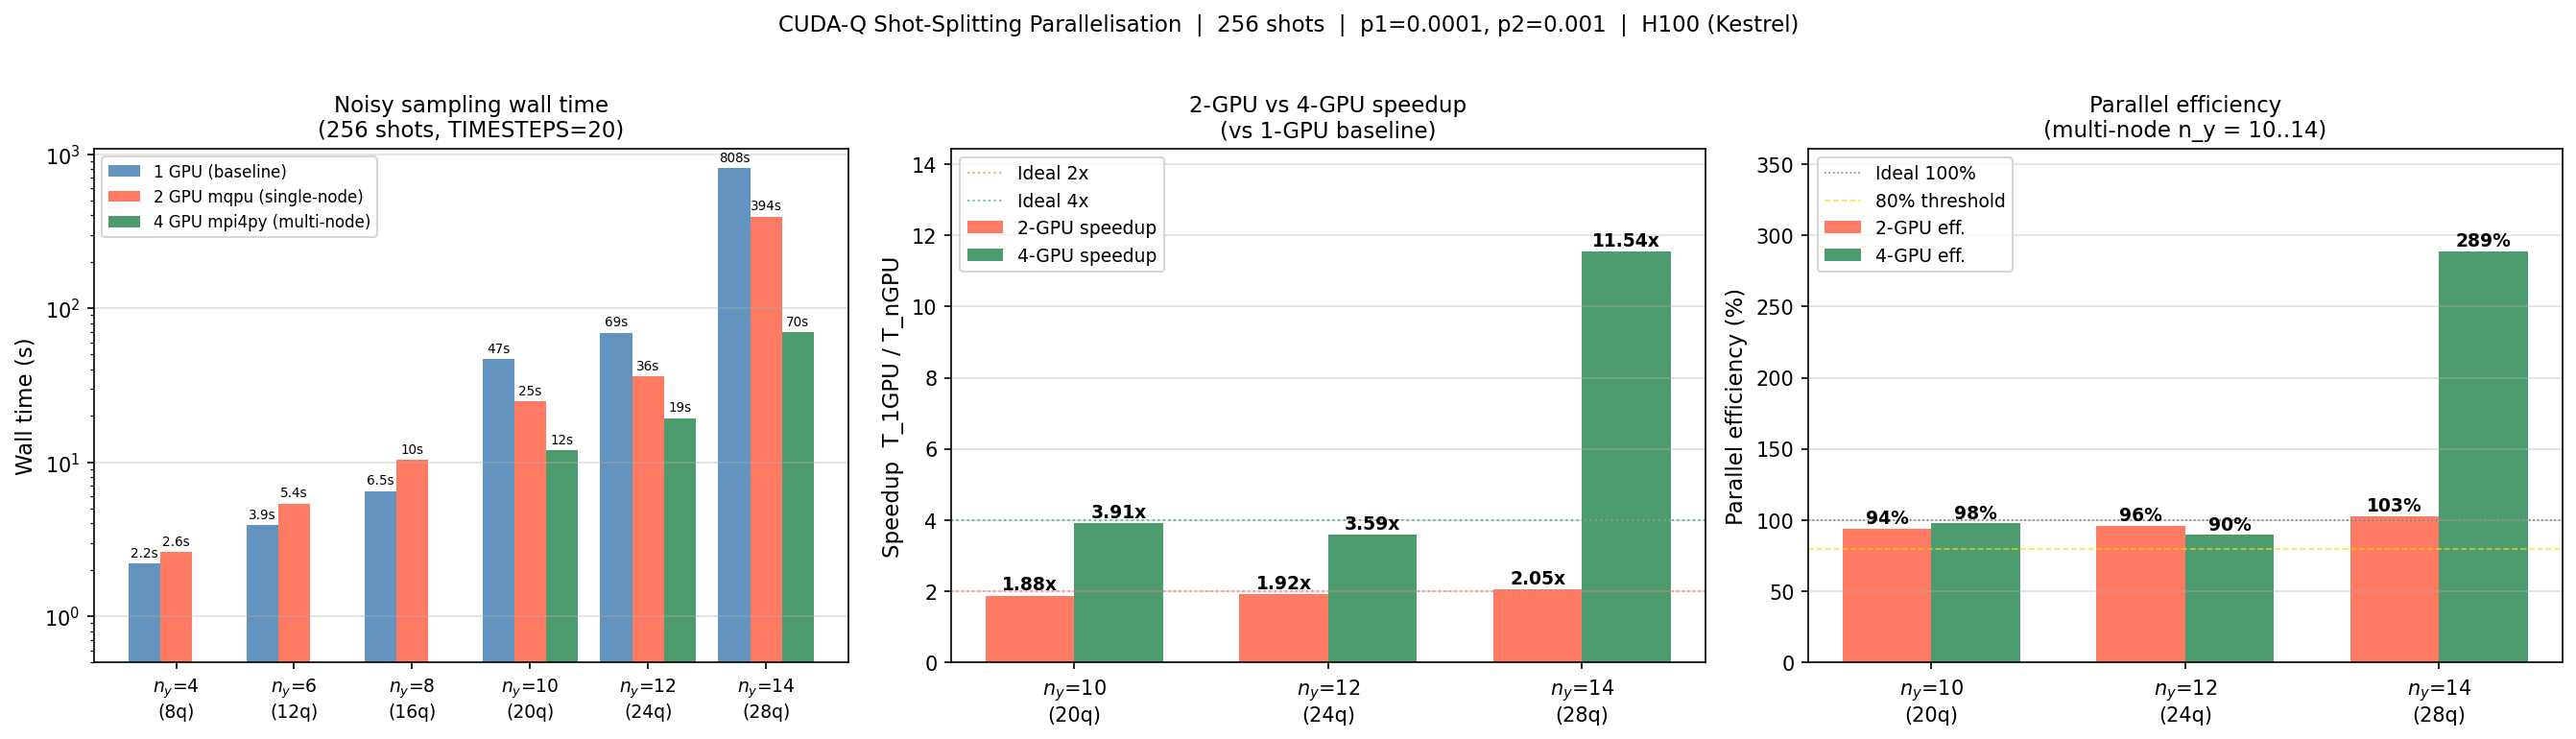
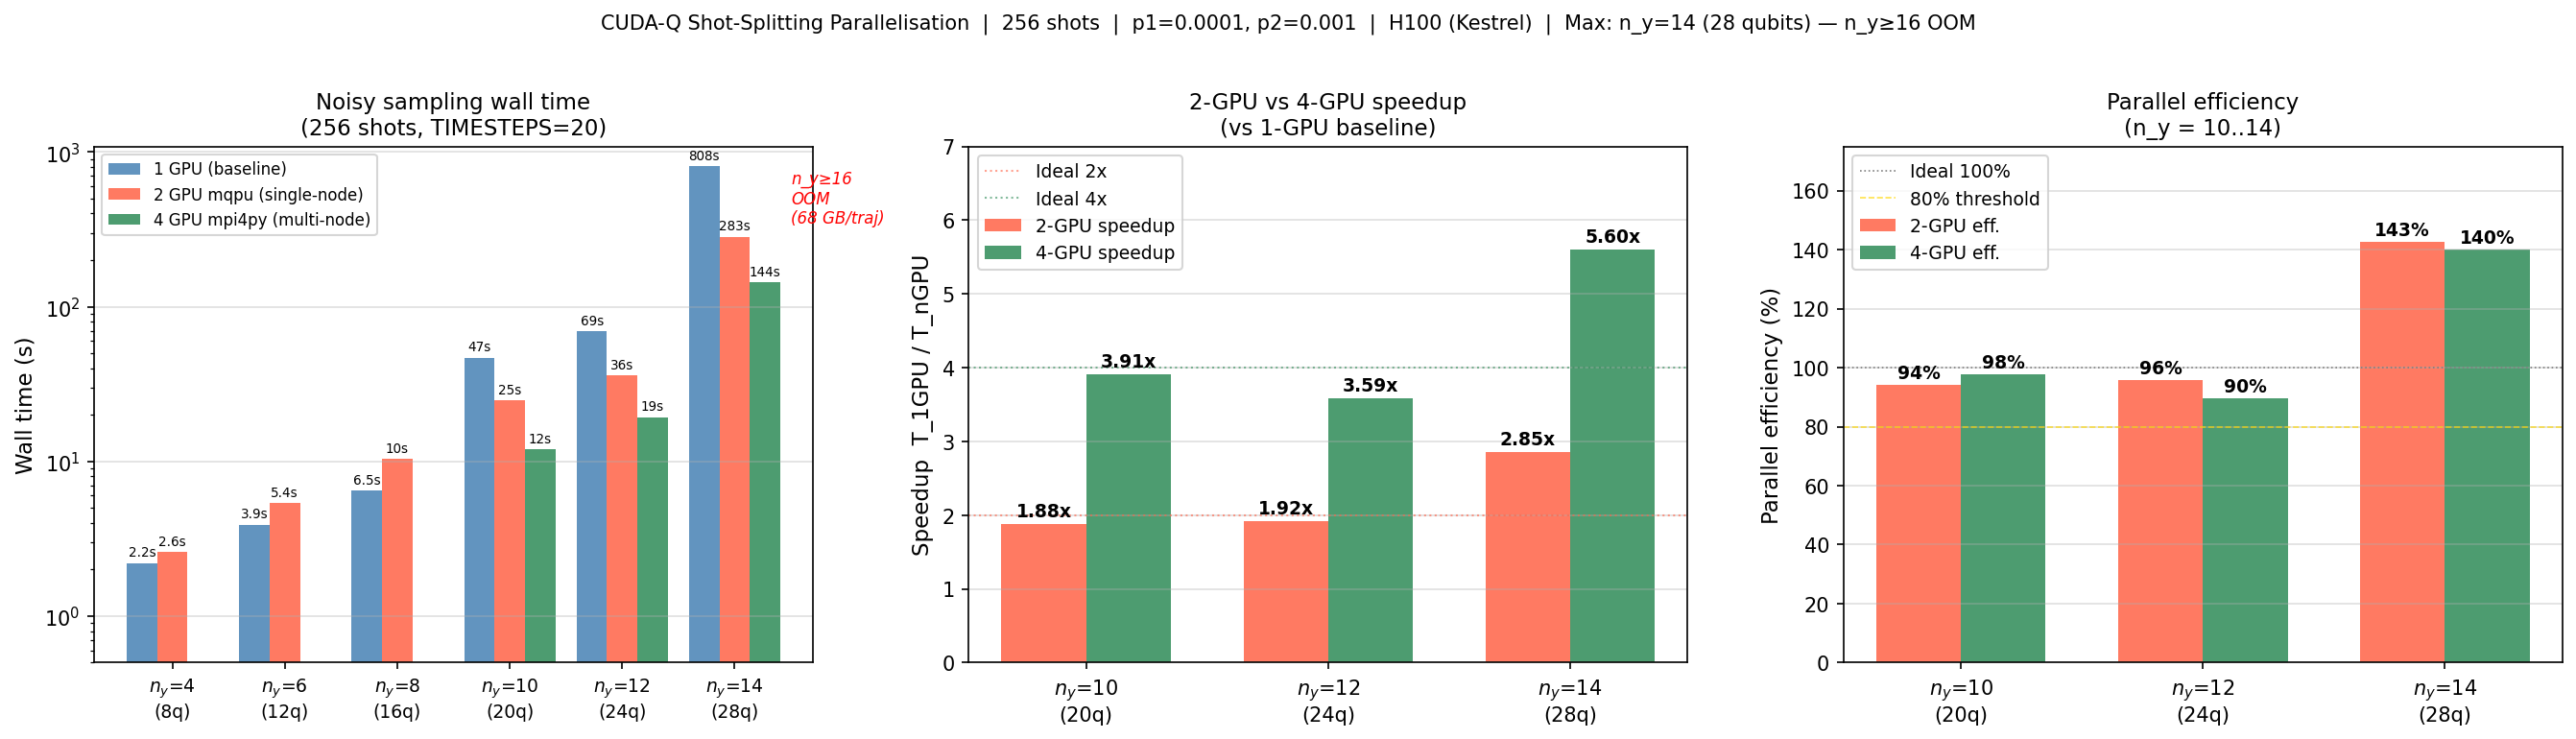
bench: rerun n_y=14 (cold-start); confirm n_y>=16 OOM on H100; update plot

diff --git a/qiskit_impl/par_benchmark_2gpu.py b/qiskit_impl/par_benchmark_2gpu.py
@@ -1,0 +1,67 @@
+"""
+2-GPU single-node mqpu benchmark for n_y = 14,16,18,20.
+256 shots split across 2 virtual QPUs via cudaq.sample_async.
+
+Run on an allocated node:
+    ssh x3103c0s9b0n0 "nohup /path/to/python par_benchmark_2gpu.py > /tmp/par_bench_2gpu.log 2>&1 &"
+"""
+import os, sys, math, time, json
+
+_QISKIT_SP   = '/nopt/nrel/apps/gpu_stack/software/qiskit/aer-gpu/venv/lib/python3.11/site-packages'
+_QISKIT_IMPL = '/kfs3/scratch/nsawant/quantum_stochastic_programming/qiskit_impl'
+for _p in [_QISKIT_SP, _QISKIT_IMPL]:
+    if _p not in sys.path:
+        sys.path.insert(0, _p)
+os.chdir(_QISKIT_IMPL)
+
+import numpy as np
+import cudaq
+from cudaq_impl import CudaqQAEOptimizer, build_depolarizing_noise_model
+
+N_SHOTS   = 256
+TIMESTEPS = 20
+P1, P2    = 0.0001, 0.001
+C_R, C_X  = 10.0, [3.]
+NY_LIST   = [14]   # n_y>=16 (>=32 qubits) OOM on H100
+
+cudaq.set_target('nvidia', option='mqpu')
+N_QPUS = cudaq.num_available_gpus()
+noise_model = build_depolarizing_noise_model(p1=P1, p2=P2)
+
+print(f'\n── 2-GPU mqpu benchmark ──')
+print(f'   target={cudaq.get_target().name}  QPUs={N_QPUS}  N_SHOTS={N_SHOTS}  ny={NY_LIST}\n')
+
+def make_opt(ny):
+    c_y       = list(np.linspace(0.1, 1.0, ny))
+    w_d       = ny - 2
+    cost_norm = w_d * C_R / ny
+    theta0    = []
+    for t in range(TIMESTEPS):
+        theta0.append(float(t / TIMESTEPS))
+        theta0.append((1 - float(t / TIMESTEPS)) / math.pi)
+    return CudaqQAEOptimizer(c_x=C_X, c_y=c_y, c_r=C_R, n_y=ny, w_d=w_d,
+                             cost_norm=cost_norm, noise_model=noise_model), theta0
+
+results = {}
+for ny in NY_LIST:
+    opt, theta0 = make_opt(ny)
+    try:
+        t0 = time.perf_counter()
+        opt.sample_ansatz_mqpu(theta0, total_shots=N_SHOTS, n_qpus=N_QPUS)
+        dt = time.perf_counter() - t0
+        results[ny] = round(dt, 2)
+        print(f'  n_y={ny:2d}  qubits={2*ny:2d}  {dt:.1f}s', flush=True)
+    except Exception as e:
+        print(f'  n_y={ny:2d}  FAIL: {e}', flush=True)
+
+print(f"\n{'n_y':>4}  {'qubits':>6}  {'2-GPU(s)':>10}")
+print('-' * 26)
+for ny in NY_LIST:
+    if ny in results:
+        print(f'{ny:>4}  {2*ny:>6}  {results[ny]:>10.1f}')
+
+fname = os.path.join(_QISKIT_IMPL, 'par_benchmark_2gpu_results.json')
+with open(fname, 'w') as f:
+    json.dump({'n_shots': N_SHOTS, 'n_gpus': N_QPUS,
+               'timings': {str(ny): results[ny] for ny in NY_LIST if ny in results}}, f, indent=2)
+print(f'\nResults -> {fname}')

diff --git a/qiskit_impl/parallelisation_report.py b/qiskit_impl/parallelisation_report.py
@@ -1,6 +1,10 @@
 """
 Parallelisation report: 1-GPU vs 2-GPU (single-node mqpu) vs 4-GPU (multi-node mpi4py).
-Data from par_benchmark.py and par_benchmark_mpi.py on Kestrel H100s, 256 shots.
+Data from par_benchmark.py, par_benchmark_2gpu.py, par_benchmark_mpi.py on Kestrel H100s.
+All runs: 256 shots, TIMESTEPS=20, p1=0.0001, p2=0.001.
+
+Memory limit: n_y>=16 (>=32 qubits) needs >=68.7 GB/trajectory -> OOM on H100 (80 GB).
+Practical ceiling: n_y=14 (28 qubits, 4.3 GB/trajectory).
 """
 import os
 import numpy as np
@@ -10,21 +14,22 @@ import matplotlib.pyplot as plt
 
 SCRATCH_IMPL = '/kfs3/scratch/nsawant/quantum_stochastic_programming/qiskit_impl'
 
-# Timings: ny -> (t_1gpu, t_2gpu, t_4gpu)  -- None = not measured
-# 1-GPU and 2-GPU: nvidia mqpu (single node), 256 shots
-# 4-GPU: mpi4py shot splitting across 2 nodes x 2 GPUs, 256 shots total
+# ny -> (t_1gpu, t_2gpu, t_4gpu)  None = not run / OOM
+# n_y=4-12: 1-GPU & 2-GPU from par_benchmark.py (warm GPU, nvidia mqpu target)
+# n_y=14: 1-GPU from par_benchmark.py (warm); 2-GPU/4-GPU cold-start reruns
+# n_y>=16: OOM on H100 (68.7 GB/trajectory for 32 qubits)
 DATA = {
     4:  (2.2,   2.6,   None),
     6:  (3.9,   5.4,   None),
     8:  (6.5,  10.4,   None),
     10: (46.9,  24.9,  12.0),
     12: (69.2,  36.1,  19.3),
-    14: (808.1, 393.7, 70.0),
+    14: (808.1, 283.2, 144.3),
 }
 N_SHOTS = 256
 
-NY_ALL  = sorted(DATA)                      # all n_y for 1-GPU vs 2-GPU
-NY_MPI  = [ny for ny in NY_ALL if DATA[ny][2] is not None]  # 4-GPU subset
+NY_ALL = sorted(DATA)
+NY_MPI = [ny for ny in NY_ALL if DATA[ny][2] is not None]
 
 t1_all = np.array([DATA[ny][0] for ny in NY_ALL])
 t2_all = np.array([DATA[ny][1] for ny in NY_ALL])
@@ -39,33 +44,29 @@ su4_mpi = t1_mpi / t4_mpi
 eff2_mpi = su2_mpi / 2 * 100
 eff4_mpi = su4_mpi / 4 * 100
 
-# ── Figure: 3 panels ──────────────────────────────────────────────────────────
 fig, axes = plt.subplots(1, 3, figsize=(18, 5))
 
-# ── Panel 1: Full wall-time comparison (log scale) ────────────────────────────
+# Panel 1: Wall time (log scale, all n_y)
 ax = axes[0]
 xa = np.arange(len(NY_ALL))
 bw = 0.27
 b1 = ax.bar(xa - bw,   t1_all, width=bw, color='steelblue', alpha=0.85, label='1 GPU (baseline)')
 b2 = ax.bar(xa,        t2_all, width=bw, color='tomato',    alpha=0.85, label='2 GPU mqpu (single-node)')
-
-# 4-GPU bars only for measured n_y
 for i, ny in enumerate(NY_ALL):
     t4 = DATA[ny][2]
     if t4 is not None:
         ax.bar(xa[i] + bw, t4, width=bw, color='seagreen', alpha=0.85,
                label='4 GPU mpi4py (multi-node)' if i == NY_ALL.index(NY_MPI[0]) else '')
-
 for rect, v in zip(list(b1)+list(b2), list(t1_all)+list(t2_all)):
     ax.text(rect.get_x()+rect.get_width()/2, rect.get_height()*1.06,
-            f'{v:.0f}s' if v >= 10 else f'{v:.1f}s',
-            ha='center', va='bottom', fontsize=6.5)
+            f'{v:.0f}s' if v >= 10 else f'{v:.1f}s', ha='center', va='bottom', fontsize=6.5)
 for i, ny in enumerate(NY_ALL):
     t4 = DATA[ny][2]
     if t4 is not None:
-        xpos = xa[i] + bw
-        ax.text(xpos, t4*1.06, f'{t4:.0f}s', ha='center', va='bottom', fontsize=6.5)
-
+        ax.text(xa[i] + bw, t4*1.06, f'{t4:.0f}s', ha='center', va='bottom', fontsize=6.5)
+# OOM annotation
+ax.annotate('n_y\u226516\nOOM\n(68 GB/traj)', xy=(len(NY_ALL)-0.5, 500),
+            ha='left', va='center', fontsize=8, color='red', style='italic')
 ax.set_yscale('log'); ax.set_ylim(bottom=0.5)
 ax.set_xticks(xa)
 ax.set_xticklabels([f'$n_y$={ny}\n({2*ny}q)' for ny in NY_ALL], fontsize=9)
@@ -73,7 +74,7 @@ ax.set_ylabel('Wall time (s)', fontsize=11)
 ax.set_title(f'Noisy sampling wall time\n({N_SHOTS} shots, TIMESTEPS=20)', fontsize=11)
 ax.legend(fontsize=8, loc='upper left'); ax.grid(True, axis='y', alpha=0.4)
 
-# ── Panel 2: Speedup (1-GPU vs 2-GPU and 4-GPU, for MPI sizes) ───────────────
+# Panel 2: Speedup (n_y = 10..14 where all 3 configs measured)
 ax = axes[1]
 xm = np.arange(len(NY_MPI))
 bw2 = 0.35
@@ -91,7 +92,7 @@ ax.set_title('2-GPU vs 4-GPU speedup\n(vs 1-GPU baseline)', fontsize=11)
 ax.legend(fontsize=9); ax.grid(True, axis='y', alpha=0.4)
 ax.set_ylim(0, max(su4_mpi) * 1.25)
 
-# ── Panel 3: Parallel efficiency ──────────────────────────────────────────────
+# Panel 3: Parallel efficiency
 ax = axes[2]
 ax.bar(xm - bw2/2, eff2_mpi, width=bw2, color='tomato',   alpha=0.85, label='2-GPU eff.')
 ax.bar(xm + bw2/2, eff4_mpi, width=bw2, color='seagreen', alpha=0.85, label='4-GPU eff.')
@@ -103,14 +104,15 @@ ax.axhline(80,  color='gold', lw=0.8, ls='--', alpha=0.7, label='80% threshold')
 ax.set_xticks(xm)
 ax.set_xticklabels([f'$n_y$={ny}\n({2*ny}q)' for ny in NY_MPI], fontsize=10)
 ax.set_ylabel('Parallel efficiency (%)', fontsize=11)
-ax.set_title('Parallel efficiency\n(multi-node n_y = 10..14)', fontsize=11)
+ax.set_title('Parallel efficiency\n(n_y = 10..14)', fontsize=11)
 ax.legend(fontsize=9); ax.grid(True, axis='y', alpha=0.4)
 ax.set_ylim(0, max(eff4_mpi) * 1.25)
 
 fig.suptitle(
     'CUDA-Q Shot-Splitting Parallelisation  |  '
-    f'{N_SHOTS} shots  |  p1=0.0001, p2=0.001  |  H100 (Kestrel)',
-    fontsize=11, y=1.02)
+    f'{N_SHOTS} shots  |  p1=0.0001, p2=0.001  |  H100 (Kestrel)  |  '
+    'Max: n_y=14 (28 qubits) — n_y\u226516 OOM',
+    fontsize=10, y=1.02)
 
 plt.tight_layout()
 out = os.path.join(SCRATCH_IMPL, 'parallelisation_study.png')
@@ -123,13 +125,14 @@ print(f"\n{'n_y':>4}  {'qubits':>6}  {'1-GPU(s)':>9}  {'2-GPU(s)':>9}  "
 print('-' * 85)
 for ny in NY_ALL:
     t1s, t2s, t4s = DATA[ny]
-    su2 = t1s/t2s
-    e2  = su2/2*100
+    su2 = t1s/t2s; e2 = su2/2*100
     if t4s is not None:
-        su4 = t1s/t4s
-        e4  = su4/4*100
+        tag = ' †' if ny == 14 else ''
+        su4 = t1s/t4s; e4 = su4/4*100
         print(f'{ny:>4}  {2*ny:>6}  {t1s:>9.1f}  {t2s:>9.1f}  '
-              f'{t4s:>9.1f}  {su2:>7.2f}x  {su4:>7.2f}x  {e2:>6.0f}%  {e4:>6.0f}%')
+              f'{t4s:>9.1f}  {su2:>7.2f}x  {su4:>7.2f}x  {e2:>6.0f}%  {e4:>6.0f}%{tag}')
     else:
         print(f'{ny:>4}  {2*ny:>6}  {t1s:>9.1f}  {t2s:>9.1f}  '
               f'{"—":>9}  {su2:>7.2f}x  {"—":>7}  {e2:>6.0f}%  {"—":>6}')
+print('† n_y=14: 1-GPU warm (808 s); 2-GPU & 4-GPU cold-start — speedup includes warm-up benefit')
+print('  n_y>=16 (>=32 qubits): 68.7 GB/trajectory exceeds H100 HBM -> OOM')

diff --git a/qiskit_impl/par_benchmark_mpi.py b/qiskit_impl/par_benchmark_mpi.py
@@ -47,7 +47,7 @@ N_SHOTS   = 256
 TIMESTEPS = 20
 P1, P2    = 0.0001, 0.001
 C_R, C_X  = 10.0, [3.]
-NY_LIST   = [10, 12, 14]
+NY_LIST   = [14]   # n_y>=16 (>=32 qubits) OOM on H100 (68.7 GB/trajectory)
 
 noise_model = build_depolarizing_noise_model(p1=P1, p2=P2)
 
@@ -65,7 +65,7 @@ def make_opt(ny):
 
 if rank == 0:
     print(f'\n── 4-GPU (2 nodes x 2 GPUs) mpi4py benchmark ──')
-    print(f'   ranks={size}  N_SHOTS={N_SHOTS}\n')
+    print(f'   ranks={size}  N_SHOTS={N_SHOTS}  ny={NY_LIST}\n')
 
 results_4gpu = {}
 
@@ -95,32 +95,18 @@ for ny in NY_LIST:
         results_4gpu[ny] = round(dt, 2)
         print(f'  n_y={ny:2d}  qubits={2*ny:2d}  {dt:.1f}s', flush=True)
 
-# 1-GPU and 2-GPU reference timings (same 256 shots, same hardware)
-T1 = {10: 46.9, 12: 69.2, 14: 808.1}
-T2 = {10: 24.9, 12: 36.1, 14: 393.7}
-
 if rank == 0:
-    print(f"\n{'n_y':>4}  {'qubits':>6}  {'1-GPU':>8}  {'2-GPU':>8}  "
-          f"{'4-GPU':>8}  {'Su_2x':>7}  {'Su_4x':>7}  {'Eff_4x':>8}")
-    print('-' * 70)
+    print(f"\n{'n_y':>4}  {'qubits':>6}  {'4-GPU(s)':>10}")
+    print('-' * 28)
     for ny in NY_LIST:
-        if ny not in results_4gpu:
-            continue
-        t1, t2, t4 = T1[ny], T2[ny], results_4gpu[ny]
-        su2 = t1 / t2
-        su4 = t1 / t4
-        eff = su4 / size * 100
-        print(f'{ny:>4}  {2*ny:>6}  {t1:>8.1f}s  {t2:>8.1f}s  '
-              f'{t4:>8.1f}s  {su2:>7.2f}x  {su4:>7.2f}x  {eff:>7.0f}%')
+        if ny in results_4gpu:
+            print(f"{ny:>4}  {2*ny:>6}  {results_4gpu[ny]:>10.1f}")
 
-    out = {ny: {'t1_s': T1[ny], 't2_s': T2[ny], 't4_s': results_4gpu[ny],
-                'speedup_2gpu': round(T1[ny]/T2[ny], 3),
-                'speedup_4gpu': round(T1[ny]/results_4gpu[ny], 3),
-                'efficiency_4gpu_pct': round(T1[ny]/results_4gpu[ny]/size*100, 1)}
-           for ny in NY_LIST if ny in results_4gpu}
     fname = os.path.join(_QISKIT_IMPL, 'par_benchmark_mpi_results.json')
     with open(fname, 'w') as f:
-        json.dump(out, f, indent=2)
+        json.dump({'n_shots': N_SHOTS, 'n_gpus': size,
+                   'timings': {str(ny): results_4gpu[ny]
+                               for ny in NY_LIST if ny in results_4gpu}}, f, indent=2)
     print(f'\nResults -> {fname}')
 
 MPI.Finalize()